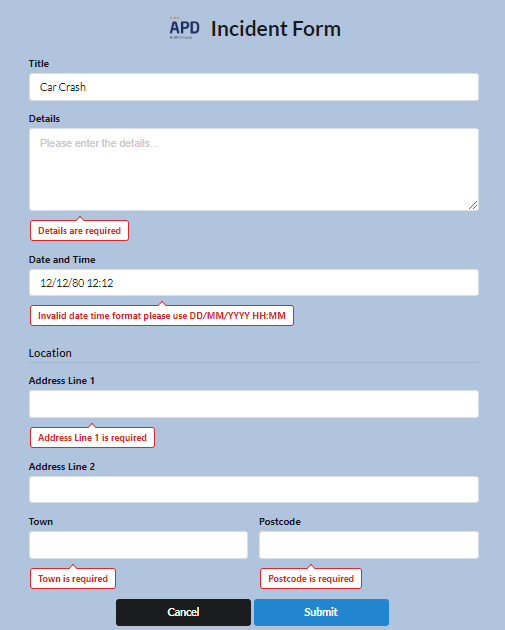
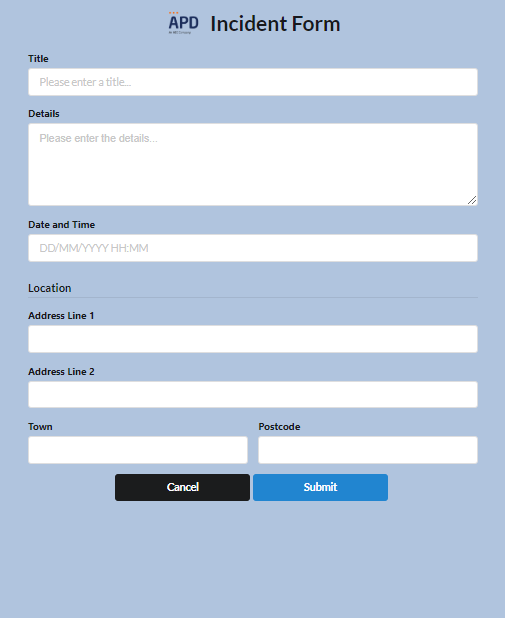
update screenshots

diff --git a/README.md b/README.md
@@ -12,7 +12,8 @@ I could have just styled everything myself but again I choose this for speed.
 
 - I have implemented the date/time field as a text input field, however we could choose to add a date picker UI component.
 
-  ![alt text](screenshot.png#center "Incident Form Screenshot")
+  ![alt text](screenshot.png "Incident Form Screenshot")
+  ![alt text](screenshot-with-errors.png "Incident Form Screenshot with validation errors")
 
 #### Original Brief:
 In order to show off your creativity and coding skills; please can you create a web page containing a tool to 
